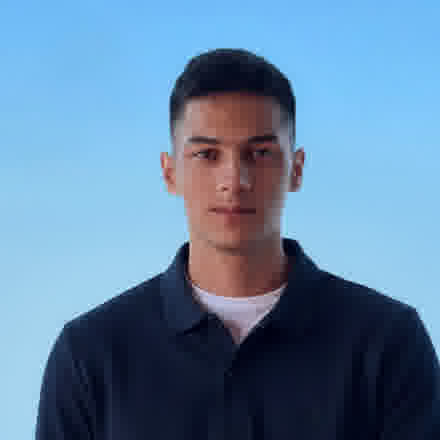
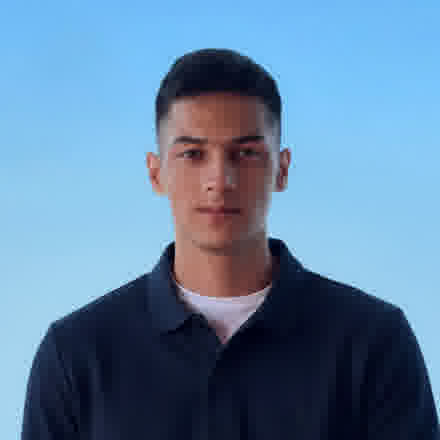
Fix photo crop, marquee spacing, and strip container
- Nudge the profile photo crop left so he's properly centered in the
  circle instead of standing slightly off to one side
- Widen the gap between client logos and their name boxes so long
  company names (REFIND COMMERCE, SARGU TRANS, etc.) stop overlapping
  their neighbors
- Drop the top/bottom border on the Clients section so the marquee
  blends into the page instead of reading as a boxed strip

Changed region(s): [[0.0295, 0.0886, 1.0, 1.0], [0.1477, 0.8273, 0.2659, 0.8864], [0.2068, 0.9159, 0.2364, 1.0]]

diff --git a/components/sections/Clients.tsx b/components/sections/Clients.tsx
@@ -26,10 +26,10 @@ const LOOP = [...CLIENTS, ...CLIENTS];
 
 export function Clients() {
   return (
-    <section className="py-16 border-t border-b border-surface-border overflow-hidden">
-      <div className="marquee-track flex w-max items-start gap-10 px-6">
+    <section className="py-16 overflow-hidden">
+      <div className="marquee-track flex w-max items-start gap-20 px-6">
         {LOOP.map((client, i) => (
-          <div key={`${client.name}-${i}`} className="flex w-20 shrink-0 flex-col items-center gap-2.5">
+          <div key={`${client.name}-${i}`} className="flex w-28 shrink-0 flex-col items-center gap-2.5">
             <div className="h-20 w-20 overflow-hidden rounded-full border border-surface-border shadow-[var(--surface-shadow)]">
               {/* eslint-disable-next-line @next/next/no-img-element */}
               <img src={client.src} alt={client.name} className="h-full w-full object-cover" />
